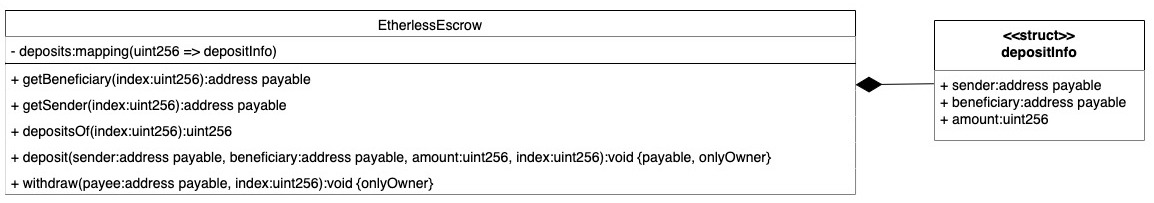
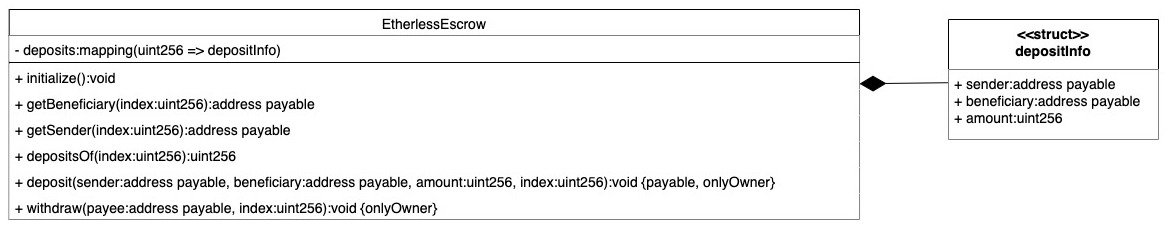
Aggiornata sezione smart

diff --git a/Esterni/Developer_manual/res/sections/04-Smart.tex b/Esterni/Developer_manual/res/sections/04-Smart.tex
@@ -25,6 +25,7 @@
 		\item \textbf{serverAddress:} server address;
 		\item \textbf{contractBalance:} amount of ETH stored in the smart contract;
 		\item \textbf{requestId:} unique identifier used to mark each request that needs payment;
+		\item \textbf{fprice:} price the users will have to pay to execute functions. This is also the price the developers have to pay to perform operations on one of their functions. These operations include: function deployment, function modification (both source code and description) and function deletion;
 		\item \textbf{ethStorage:} instance of EtherlessStorage contract;
 		\item \textbf{escrow:} instance of EtherlessEscrow contract;
 	\end{itemize}
@@ -34,27 +35,30 @@
 	\end{itemize}
 \subsubsubsection*{Events}
 	\begin{itemize}
-		\item \textbf{runRequest:} event emitted when a request of a function execution is received;
 		\item \textbf{deployRequest:} event emitted when a request of a function deployment is received;
-		\item \textbf{editRequest:} event emitted when a request of a function modification is received;
+		\item \textbf{runRequest:} event emitted when a request of a function execution is received;
 		\item \textbf{deleteRequest:} event emitted when a request of a function deletion is received;
+		\item \textbf{editRequest:} event emitted when a request of a function modification is received;
 		\item \textbf{resultOK:} event emitted when the result of a certain execution has to be communicated;
 		\item \textbf{resultError:} event emitted when the failure of a certain execution has to be communicated;
 	\end{itemize}
 \subsubsubsection*{Methods}
 	\begin{itemize}
+		\item \textbf{initialize:} used by \texttt{OpenZeppelin} as the function's constructor. This function should contain all the setup logic;
 		\item \textbf{deployFunction:} requests the deployment of a certain function;
 		\item \textbf{runFunction:} requests the execution of a certain function;
-		\item \textbf{editFunction:} requests the modification of a certain function;
 		\item \textbf{deleteFunction:} requests the deletion of a certain function; can only be invoked by the developer of said function;
+		\item \textbf{editFunction:} requests the modification of a certain function;
+		\item \textbf{editFuncDescr:} edits the function's description;
 		\item \textbf{deployResult:} communicates the result of a function deployment; can only be invoked by the server address;
 		\item \textbf{runResult:} communicates the result of a function execution; can only be invoked by the server address;
-		\item \textbf{editResult:} communicates the result of a function modification; can only be invoked by the server address;
 		\item \textbf{deleteResult:} communicates the result of a function deletion; can only be invoked by the server address;
+		\item \textbf{editResult:} communicates the result of a function modification; can only be invoked by the server address;
 		\item \textbf{getCost:} returns the cost of execution of a function;
 		\item \textbf{getInfo:} returns all the information regarding a certain function;
 		\item \textbf{getFuncList:} returns the names of all functions that have been deployed;
 		\item \textbf{getOwnedList:} returns the names of all functions that have been deployed by a certain developer;
+		\item \textbf{getDeposit:} returns the deposited ether of a specific request id;
 		\item \textbf{getNewId:} returns \texttt{requestId} incremented by one;
 		\item \textbf{getId:} returns \texttt{requestId}.
 	\end{itemize}
@@ -76,16 +80,20 @@
 		\item \textbf{singleFuncJson:} converts the content of a \texttt{jsFunction} struct into a string written in JSON format;
 		\item \textbf{addressToString:} converts an address into a string;
 		\item \textbf{uintToString:} converts an unsigned integer into a string;
+		\item \textbf{compareString:} compares two strings using a reasonable gas amount.
 		\item \textbf{existsFunction:} checks if a function is in \texttt{availableFunctions};
+		\item \textbf{isDeploying:} checks if a certain function is in the \texttt{availableFunctions} list;
 		\item \textbf{insertNewFunction:} adds a function to the \texttt{availableFunctions} mapping;
-		\item \textbf{removeFunction:} removes a function from the \texttt{availableFunctions} mapping;
 		\item \textbf{insertInArray:} adds a function to the \texttt{functionNames} array;
+		\item \textbf{removeFunction:} removes a function from the \texttt{availableFunctions} mapping;
 		\item \textbf{removeFromArray:} removes a function from the \texttt{functionNames} array;
+		\item \textbf{modifyFunction:} modifies a function's signature;
+		\item \textbf{modifyFuncDescr:} modifies a function's description;
 		\item \textbf{getFuncPrice:} returns the price of execution of a certain function;
 		\item \textbf{getFuncDev:} returns the developer address of a certain function;
 		\item \textbf{getList:} returns the name of all functions a user can execute when using \textit{Etherless};
+		\item \textbf{getDevList:} returns a list of functions deployed by a given account;
 		\item \textbf{getFuncInfo:} returns all information regarding a function;
-		\item \textbf{compareString:} compares two strings using a reasonable gas amount.
 	\end{itemize}
 
 \subsubsection{EtherlessEscrow}
@@ -101,6 +109,7 @@
 		\end{itemize}
 \subsubsubsection*{Methods}
 	\begin{itemize}
+		\item \textbf{initialize:} used by \texttt{OpenZeppelin} as the function's constructor. This function should contain all the setup logic;
 		\item \textbf{getBeneficiary:} returns the beneficiary of the transaction from the \texttt{deposits} mapping having the key \texttt{index};
 		\item \textbf{getSender:} returns the sender of the transaction from the \texttt{deposits} mapping having the key \texttt{index};
 		\item \textbf{depositsOf:} returns the amount deposited in \texttt{deposits} identified by the key \texttt{index};

diff --git a/Esterni/Developer_manual/res/sections/changelog.tex b/Esterni/Developer_manual/res/sections/changelog.tex
@@ -19,6 +19,7 @@
 
 	% contenuto tabella
 	% Versione & data & Nome \\ Ruolo & Descrizione & Verificatore \\ Ruolo
+	1.0.3 & 2020-07-12 & \NF{} \\ \textit{Designer} & Updated \textsection{5}. & - \\ \textit{Verifier} \tabularnewline
 	1.0.2 & 2020-07-12 & \EG{} \\ \textit{Designer} & Added \textsection{2.4.5}. & - \\ \textit{Verifier} \tabularnewline
 	1.0.1 & 2020-07-07 & \EG{} \\ \textit{Designer} & Updated \textsection{2.1}, \textsection{2.4} and \textsection{2.5}. & - \\ \textit{Verifier} \tabularnewline
 	1.0.0 & 2020-06-30 & \EG{} \\ \textit{Designer} & Updated \textsection{1.4}, \textsection{2.5} and removed \textsection{3.3}. Non-backwards compatible changes. & \AZ \\ \textit{Verifier} \tabularnewline
